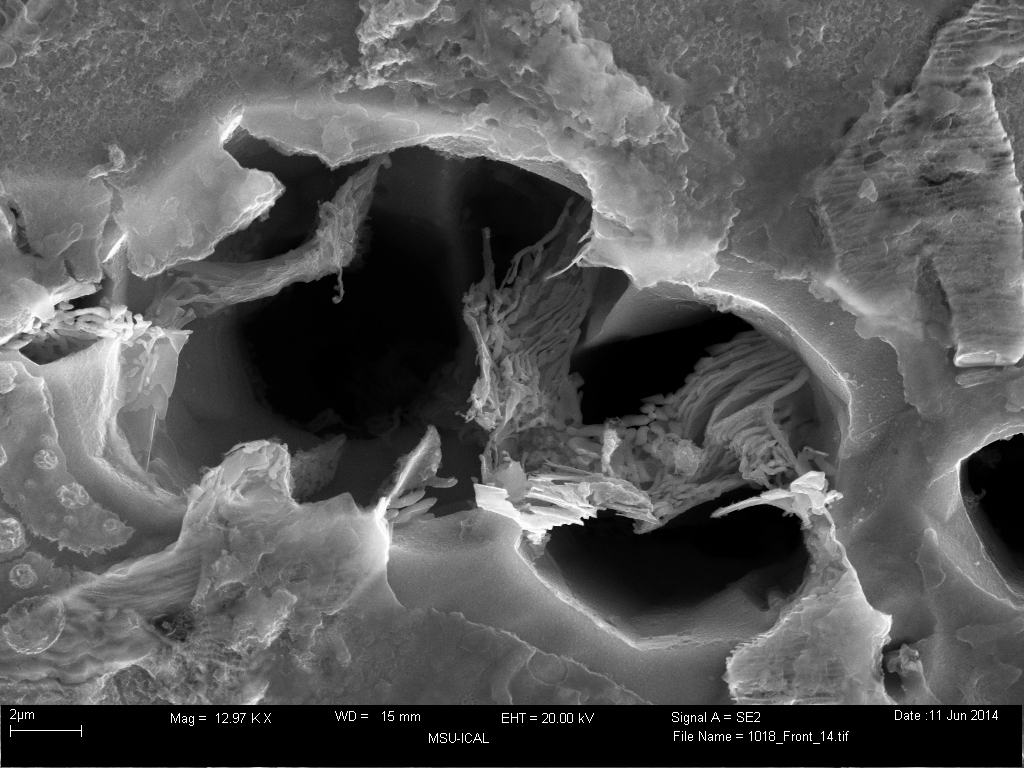
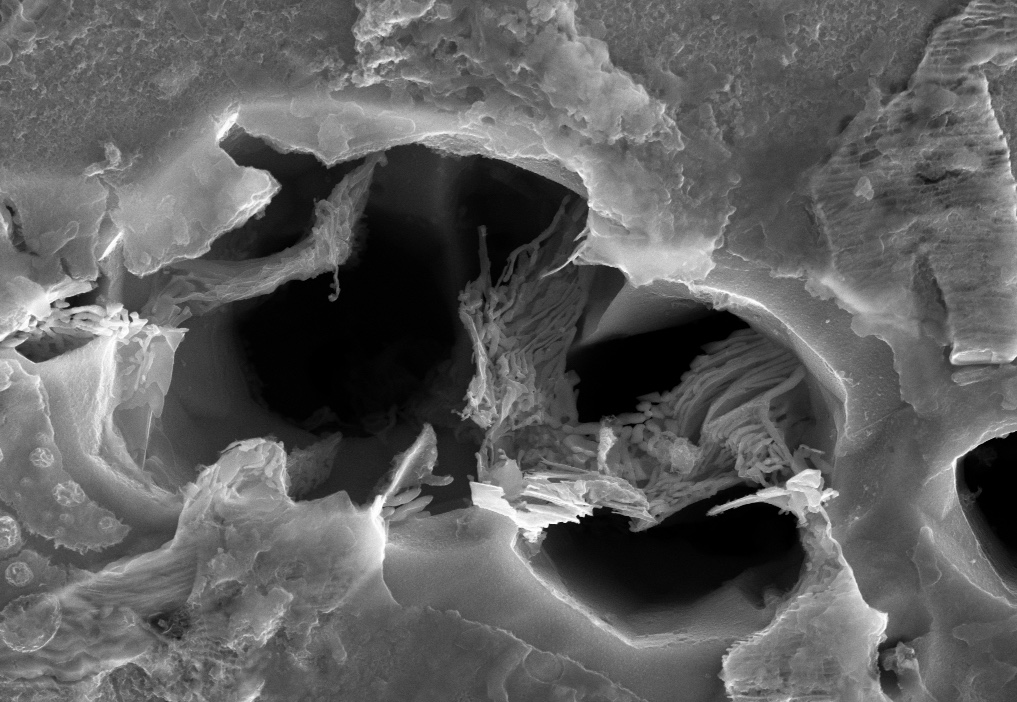
updated project 1 format

diff --git a/_projects/1_project.md b/_projects/1_project.md
@@ -1,7 +1,7 @@
 ---
 layout: page
 title: Microbially Influenced Corrosion
-description: The project that I worked on for my undergraduate research
+description: 
 img: assets/img/projects/project_1/8_a1_01.jpg
 importance: 1
 category: work
@@ -15,35 +15,14 @@ However, studies have shown that some marine bacteria (namely several species of
 The project that I worked on during my undergraduate research career at the Imaging and Chemical Analysis Lab at Montana State University focused heavily on understanding the molecular mechanisms that led to the increased rates of corrosion in these fuel/seawater systems. Over the course of 4 years, I developed workflows to characterize the metabolites within these microbial systems and the resulting effects found on the steel surfaces. One of the key discoveries that I made was the evidence of increased rates of localized corrosion at the site of manganese sulfide (MnS) inclusions that were present within the steel that we used as a model system. Imaging the corroded surface of the steel coupons that we exposed to the fuel/seawater environment revealed that MnS inclusions had greater rates of aggressive pitting corrosion of the steel, while the MnS itself remained untouched. This suggested that the steel within the region of these MnS inclusions had higher strain, likely leading to a better likelihood of the steel becoming involved in the corrosion byproduct formation and enhancing the overall rate of corrosion.
 
 
- [//]: <> (  ---
-    layout: page
-    title: project
-    description: a project with a background image
-    img: /assets/img/12.jpg
-    ---)
-
 
 <div class="row">
     <div class="col-sm mt-3 mt-md-0">
         {% include figure.liquid loading="eager" path="assets/img/projects/project_1/1018_Front_14.jpg" title="example image" class="img-fluid rounded z-depth-1" %}
     </div>
-    <div class="col-sm mt-3 mt-md-0">
-        {% include figure.liquid loading="eager" path="assets/img/3.jpg" title="example image" class="img-fluid rounded z-depth-1" %}
-    </div>
-    <div class="col-sm mt-3 mt-md-0">
-        {% include figure.liquid loading="eager" path="assets/img/5.jpg" title="example image" class="img-fluid rounded z-depth-1" %}
-    </div>
 </div>
 <div class="caption">
-    Caption photos easily. On the left, a road goes through a tunnel. Middle, leaves artistically fall in a hipster photoshoot. Right, in another hipster photoshoot, a lumberjack grasps a handful of pine needles.
-</div>
-<div class="row">
-    <div class="col-sm mt-3 mt-md-0">
-        {% include figure.liquid loading="eager" path="assets/img/5.jpg" title="example image" class="img-fluid rounded z-depth-1" %}
-    </div>
-</div>
-<div class="caption">
-    This image can also have a caption. It's like magic.
+    Pitting corrosion at the site of a manganese sulfide (MnS) inclusion. Relative to the bulk steel, corrosion occurs at a higher rate near the inclusion.
 </div>
 
 You can also put regular text between your rows of images, even citations {% cite einstein1950meaning %}.
